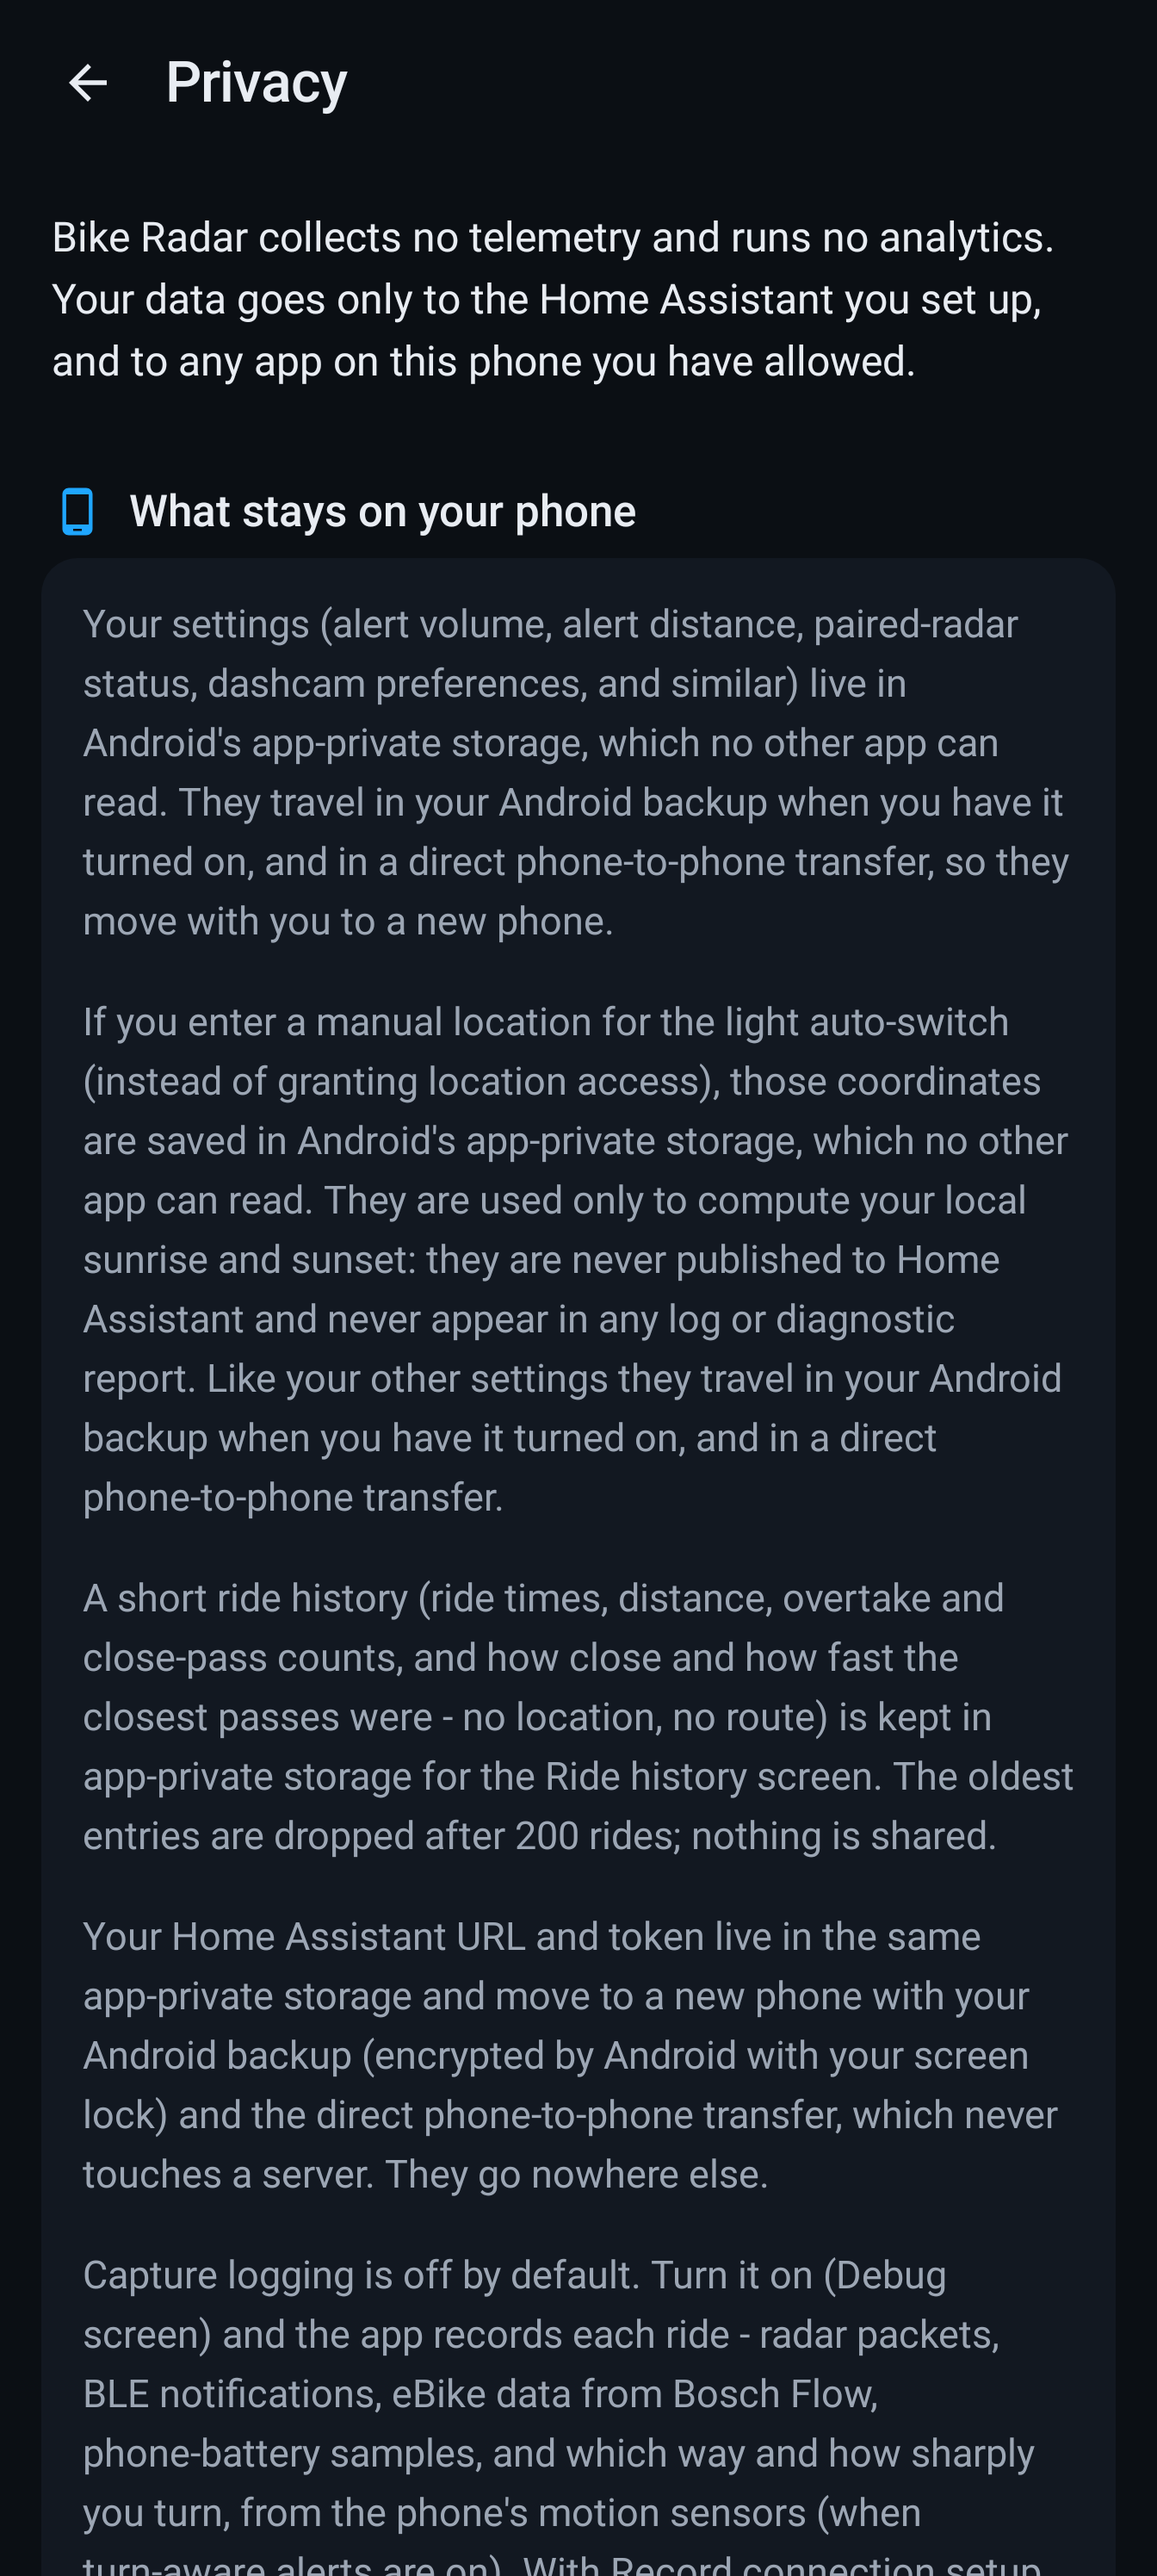
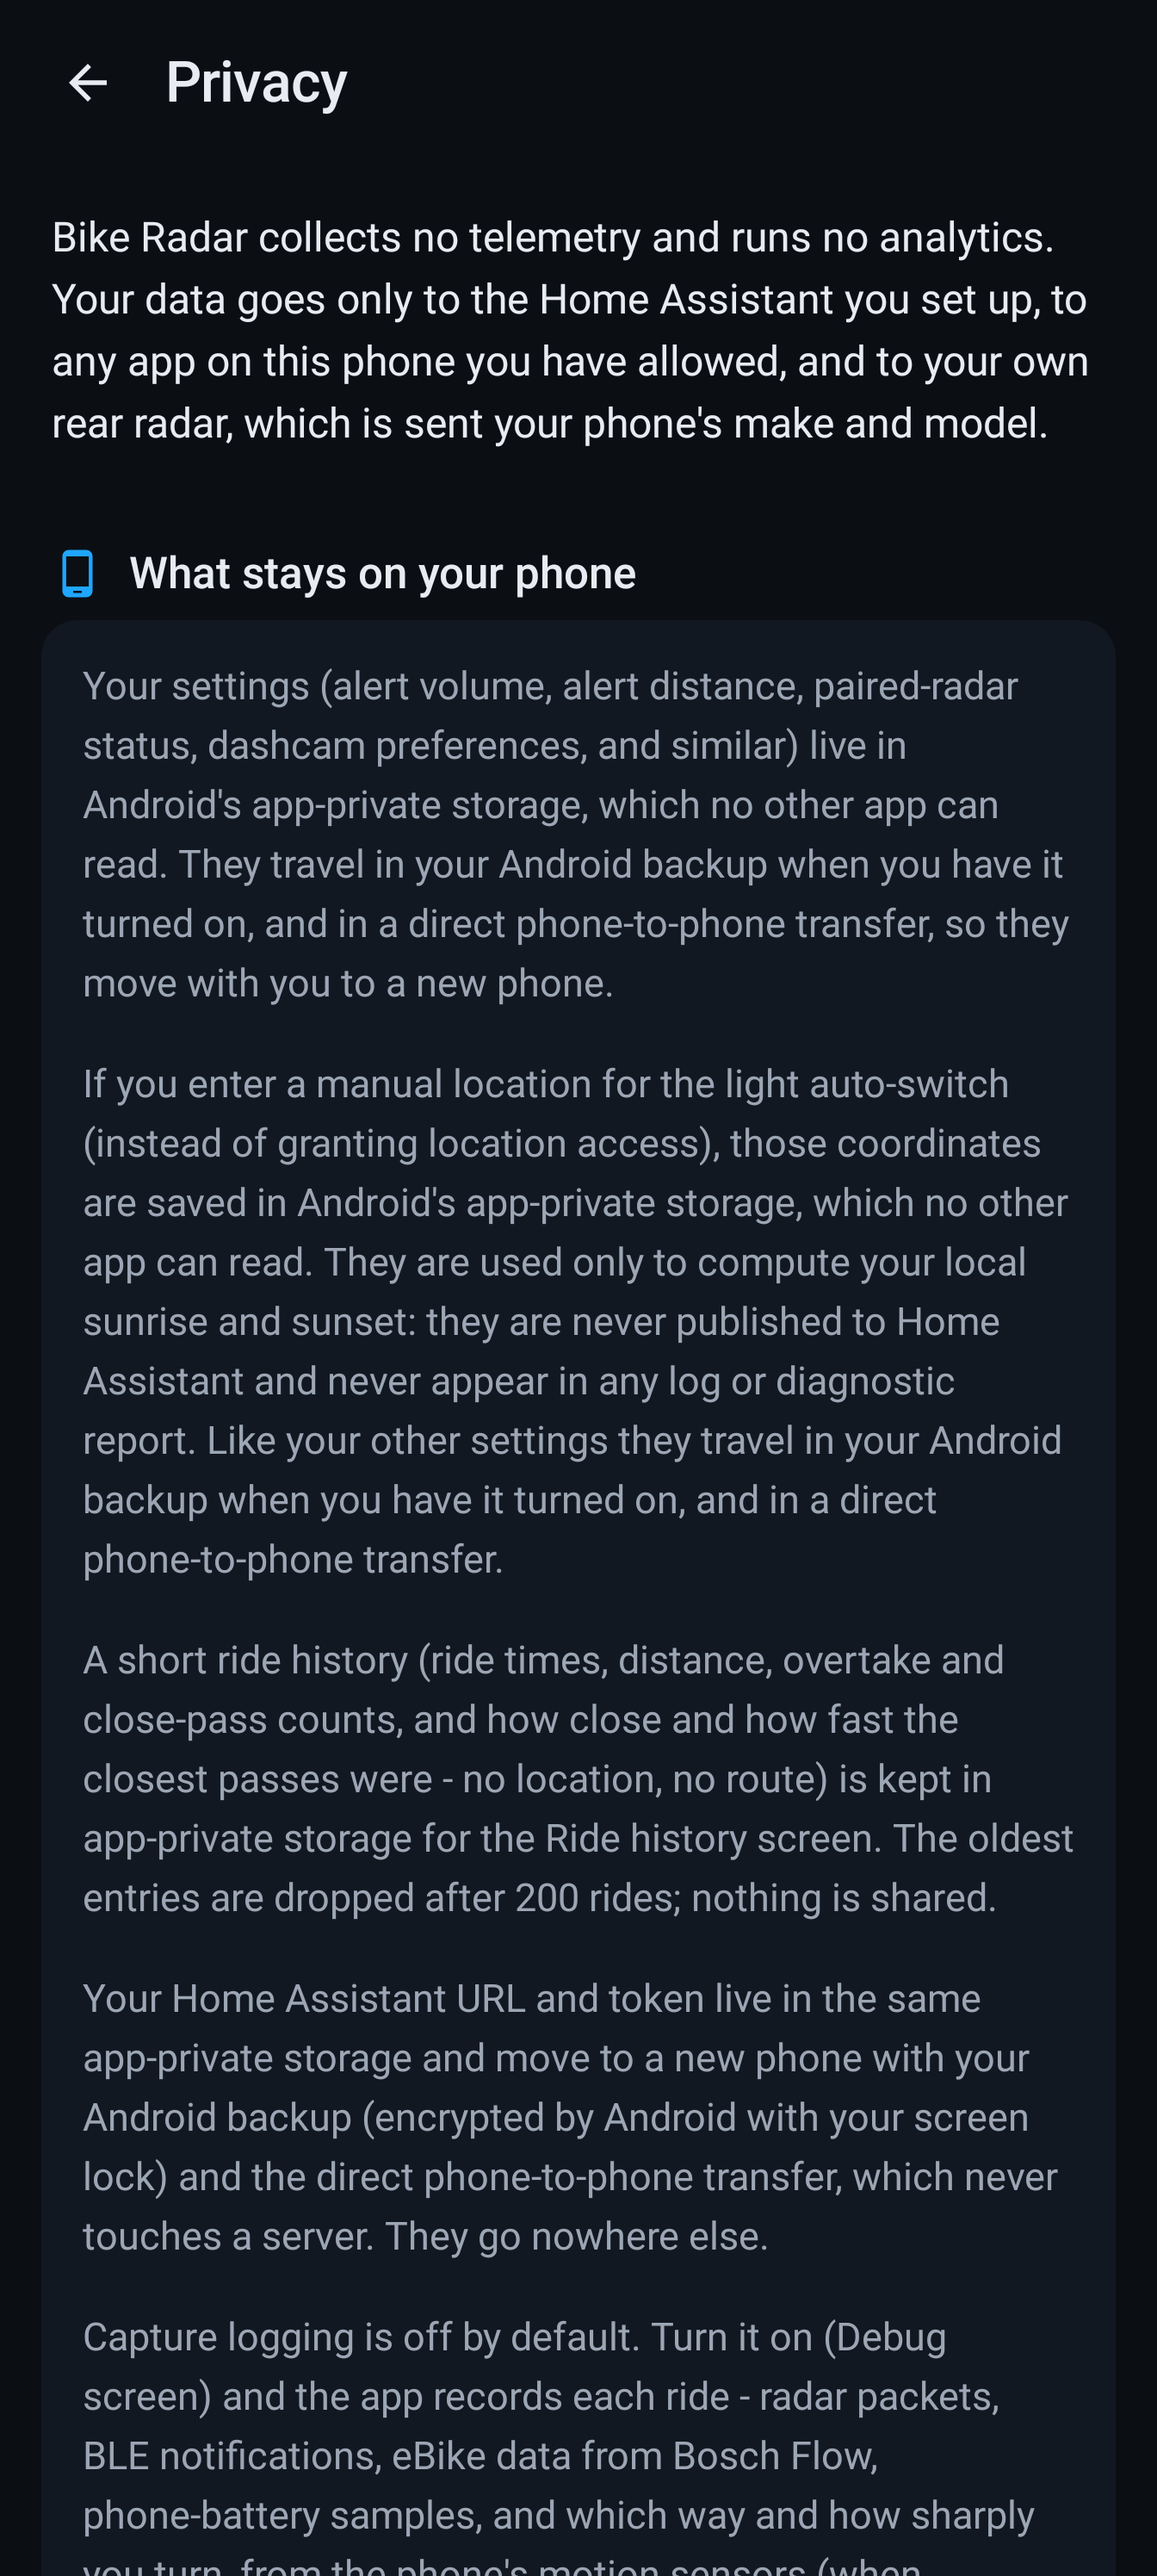
docs(privacy): say the radar is sent the phone's make and model
Connecting to the rear radar sends it the phone's make and model and a
fixed name for the app. The Privacy screen now says so in both
languages, on its Bluetooth card and in the opening line that lists
where data goes.

The handshake harness records what is written and pins the frame the
radar receives, and that the front camera is sent none of the fields.

Changed region(s): [[0.0312, 0.0933, 0.9375, 1.0]]

diff --git a/app/src/test/java/es/jjrh/bikeradar/EnablingSequenceHarnessTest.kt b/app/src/test/java/es/jjrh/bikeradar/EnablingSequenceHarnessTest.kt
@@ -25,6 +25,7 @@ import org.junit.Test
 import org.junit.runner.RunWith
 import org.robolectric.RobolectricTestRunner
 import org.robolectric.Shadows.shadowOf
+import org.robolectric.shadows.ShadowBuild
 import java.util.UUID
 
 /**
@@ -52,11 +53,15 @@ class EnablingSequenceHarnessTest {
 
     private val context: Context = ApplicationProvider.getApplicationContext()
 
-    /** Builds a GATT whose callback forwards every completion into [queue]. */
+    /** Builds a GATT whose callback forwards every completion into [queue],
+     *  and records each characteristic write as hex into [written] if given. */
     @Suppress("DEPRECATION") // 3-arg connectGatt: Robolectric harness setup
-    private fun forwardingGatt(queue: BleOpQueue): BluetoothGatt {
+    private fun forwardingGatt(queue: BleOpQueue, written: MutableList<String>? = null): BluetoothGatt {
         val cb = object : BluetoothGattCallback() {
-            override fun onCharacteristicWrite(g: BluetoothGatt?, c: BluetoothGattCharacteristic, s: Int) = queue.onCharacteristicWrite(c, s)
+            override fun onCharacteristicWrite(g: BluetoothGatt?, c: BluetoothGattCharacteristic, s: Int) {
+                if (written != null && g != null) shadowOf(g).latestWrittenBytes?.let { written += it.toHex() }
+                queue.onCharacteristicWrite(c, s)
+            }
             override fun onCharacteristicRead(g: BluetoothGatt, c: BluetoothGattCharacteristic, v: ByteArray, s: Int) = queue.onCharacteristicRead(c, v, s)
             override fun onDescriptorWrite(g: BluetoothGatt?, d: BluetoothGattDescriptor, s: Int) = queue.onDescriptorWrite(d, s)
             override fun onMtuChanged(g: BluetoothGatt?, m: Int, s: Int) = queue.onMtuChanged(m, s)
@@ -486,6 +491,59 @@ class EnablingSequenceHarnessTest {
 
         assertNull("front camera handshake should report success; log=$log", abort)
         assertTrue("front camera handshake complete must be logged", log.any { it.contains("front camera handshake complete") })
+        queue.cancel()
+    }
+
+    // ── What the phone tells each device (the Privacy screen's Bluetooth card) ──
+
+    @Test fun theRadarIsSentThePhonesMakeAndModel() = runTest {
+        ShadowBuild.setManufacturer("Acme")
+        ShadowBuild.setModel("Rocket 7")
+        val written = mutableListOf<String>()
+        val queue = BleOpQueue()
+        val gatt = forwardingGatt(queue, written)
+        setUpRadarServices(gatt)
+        startDriver(queue, gatt, radar = true)
+        val notifies = Channel<Pair<UUID, ByteArray>>(Channel.UNLIMITED)
+        notifies.trySend(Uuids.HANDSHAKE_RX to frame("000600"))
+        notifies.trySend(Uuids.HANDSHAKE_RX to frame("0001000000000000000004000040"))
+        notifies.trySend(Uuids.HANDSHAKE_RX to frame("0001000000000000000016000000"))
+        notifies.trySend(Uuids.HANDSHAKE_RX to frame("80000102030405060708090a0b0c0d0e0f1011121314"))
+        backgroundScope.launch { queue.run() }
+
+        val abort = withTimeout(60_000) { EnablingSequence.runHandshake(gatt, queue, notifies, DeviceVariant.RADAR) {} }
+
+        assertNull(abort)
+        // Lead byte from the device-ID frame, the fixed capability bytes, then
+        // "bikeradar overlay", "Acme" and "Rocket 7", length-prefixed, and the trailer.
+        val capability = "804000023f058813a013029608ffffffffffff9b2fffff" +
+            "1162696b657261646172206f7665726c6179" + "0441636d65" + "08526f636b65742037" + "01148400"
+        assertTrue(written.toString(), capability in written)
+        queue.cancel()
+    }
+
+    @Test fun theFrontCameraIsNeverSentThePhonesMakeOrModel() = runTest {
+        ShadowBuild.setManufacturer("Acme")
+        ShadowBuild.setModel("Rocket 7")
+        val written = mutableListOf<String>()
+        val queue = BleOpQueue()
+        val gatt = forwardingGatt(queue, written)
+        setUpFrontCameraServices(gatt)
+        startDriver(queue, gatt, radar = false)
+        val notifies = Channel<Pair<UUID, ByteArray>>(Channel.UNLIMITED)
+        notifies.trySend(Uuids.CHAR_2810 to frame("000600"))
+        notifies.trySend(Uuids.CHAR_2810 to frame("0001000000000000000004000040"))
+        notifies.trySend(Uuids.CHAR_2810 to frame("0000000000000000414d561800"))
+        notifies.trySend(Uuids.CHAR_2810 to frame("0000000000000000414d561882"))
+        notifies.trySend(Uuids.CHAR_2810 to frame("0000000000000000414d561800"))
+        backgroundScope.launch { queue.run() }
+
+        val abort = withTimeout(60_000) { EnablingSequence.runHandshake(gatt, queue, notifies, DeviceVariant.FRONT_CAMERA) {} }
+
+        assertNull(abort)
+        assertTrue("the harness saw no writes at all", written.isNotEmpty())
+        // "Acme", "Rocket" and "bikeradar": none of the three device-ID fields.
+        assertTrue(written.toString(), written.none { "41636d65" in it || "526f636b6574" in it || "62696b657261646172" in it })
         queue.cancel()
     }
 }

diff --git a/app/src/test/java/es/jjrh/bikeradar/HandshakeDeviceIdIsDisclosedTest.kt b/app/src/test/java/es/jjrh/bikeradar/HandshakeDeviceIdIsDisclosedTest.kt
@@ -1,0 +1,59 @@
+// SPDX-License-Identifier: GPL-3.0-or-later
+// Copyright (C) 2026 JJ del Rio
+package es.jjrh.bikeradar
+
+import android.app.Application
+import androidx.test.core.app.ApplicationProvider
+import org.junit.Assert.assertTrue
+import org.junit.Test
+import org.junit.runner.RunWith
+import org.robolectric.RobolectricTestRunner
+import org.robolectric.annotation.Config
+
+/**
+ * The Privacy screen says the rear radar is sent the phone's make and model, in
+ * its opening line and on its Bluetooth card, in both locales. The opening line
+ * otherwise promises the data goes only to Home Assistant and allowed apps. The
+ * sending end is pinned on the wire by
+ * `EnablingSequenceHarnessTest.theRadarIsSentThePhonesMakeAndModel` and
+ * `theFrontCameraIsNeverSentThePhonesMakeOrModel`.
+ */
+@RunWith(RobolectricTestRunner::class)
+class HandshakeDeviceIdIsDisclosedTest {
+
+    private val app: Application = ApplicationProvider.getApplicationContext()
+
+    @Test
+    fun theEnglishBluetoothCardSaysSo() {
+        val body = app.getString(R.string.settings_privacy_bluetooth_body)
+        for (phrase in listOf("rear radar", "make and model", "Google Pixel 10")) {
+            assertTrue("the Bluetooth disclosure does not mention $phrase: $body", body.contains(phrase))
+        }
+    }
+
+    @Test
+    @Config(qualifiers = "+es")
+    fun theSpanishBluetoothCardSaysSoToo() {
+        val body = app.getString(R.string.settings_privacy_bluetooth_body)
+        for (phrase in listOf("radar trasero", "marca y el modelo", "Google Pixel 10")) {
+            assertTrue("la copia de Bluetooth no menciona $phrase: $body", body.contains(phrase))
+        }
+    }
+
+    @Test
+    fun theEnglishOpeningLineNamesTheRadar() {
+        val intro = app.getString(R.string.settings_privacy_intro)
+        for (phrase in listOf("rear radar", "make and model")) {
+            assertTrue("the Privacy intro does not mention $phrase: $intro", intro.contains(phrase))
+        }
+    }
+
+    @Test
+    @Config(qualifiers = "+es")
+    fun theSpanishOpeningLineNamesTheRadarToo() {
+        val intro = app.getString(R.string.settings_privacy_intro)
+        for (phrase in listOf("radar trasero", "marca y el modelo")) {
+            assertTrue("la introducción de Privacidad no menciona $phrase: $intro", intro.contains(phrase))
+        }
+    }
+}
